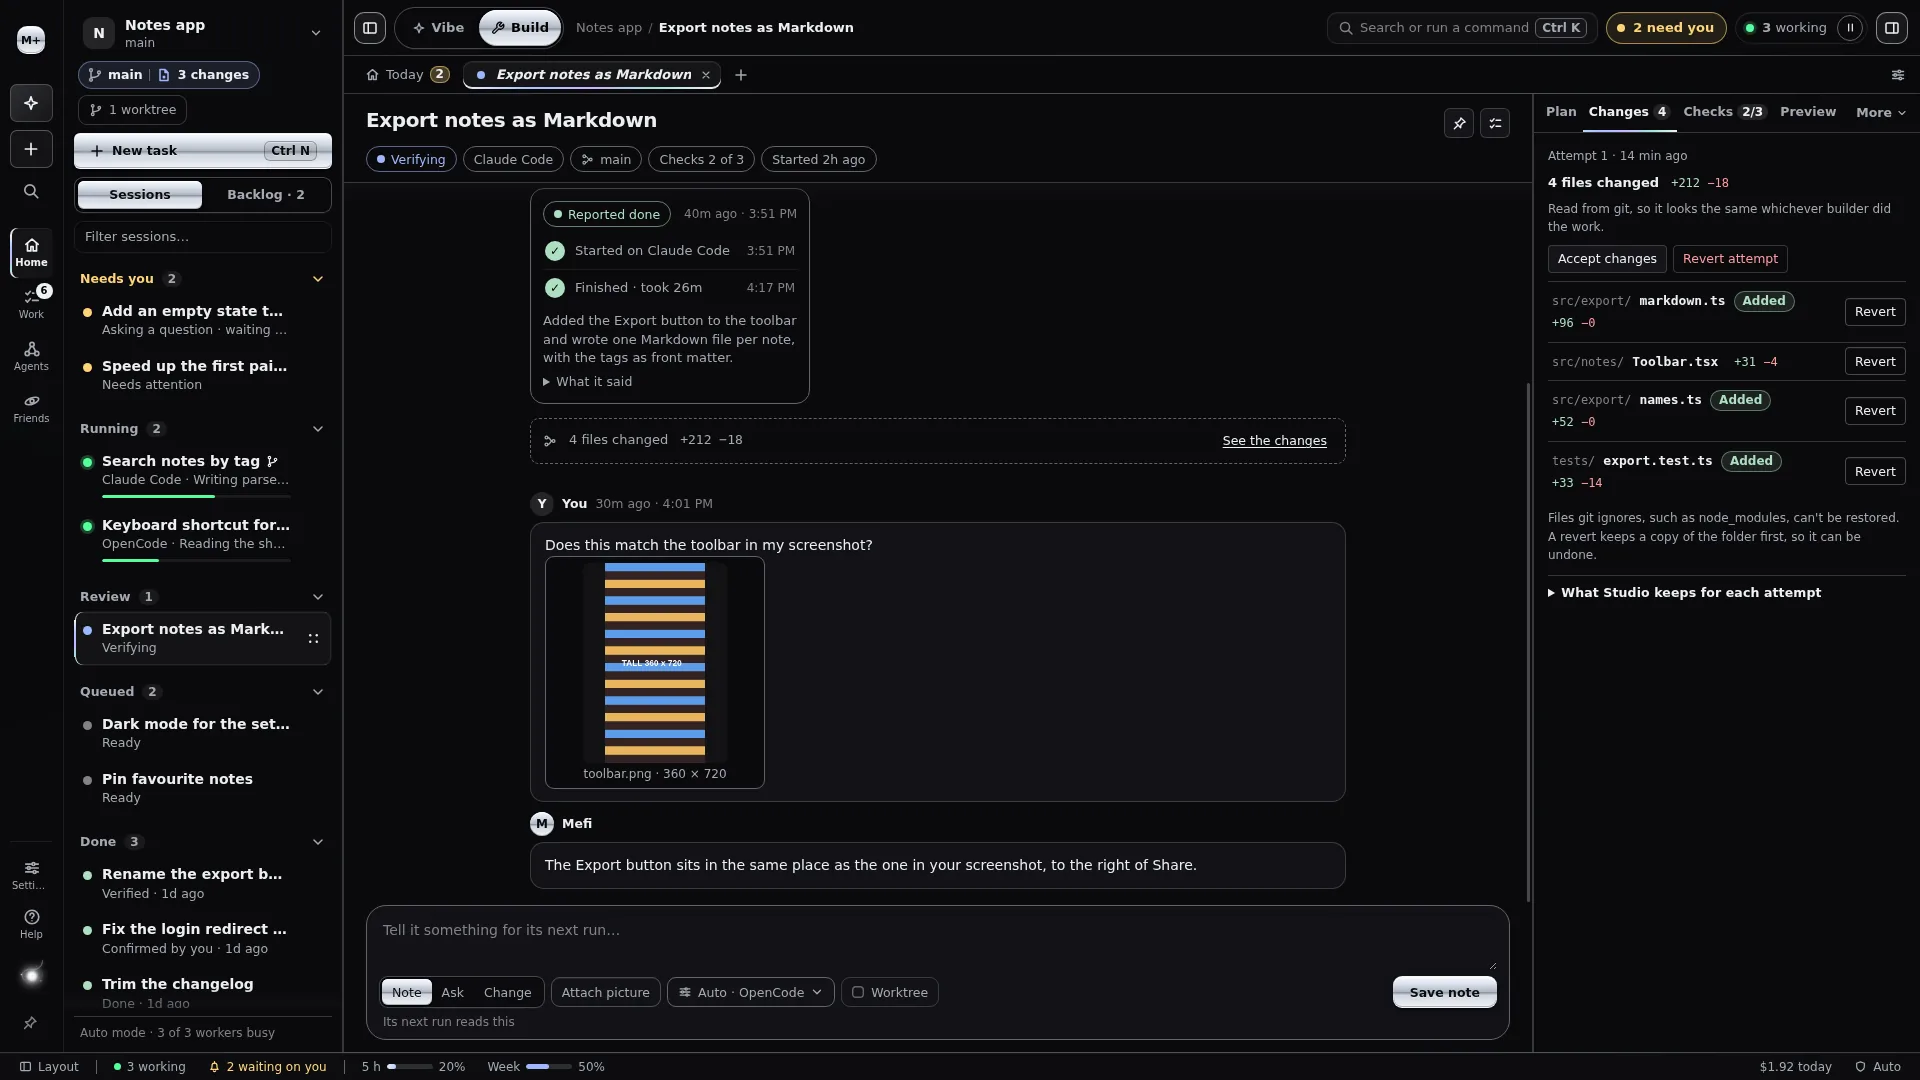
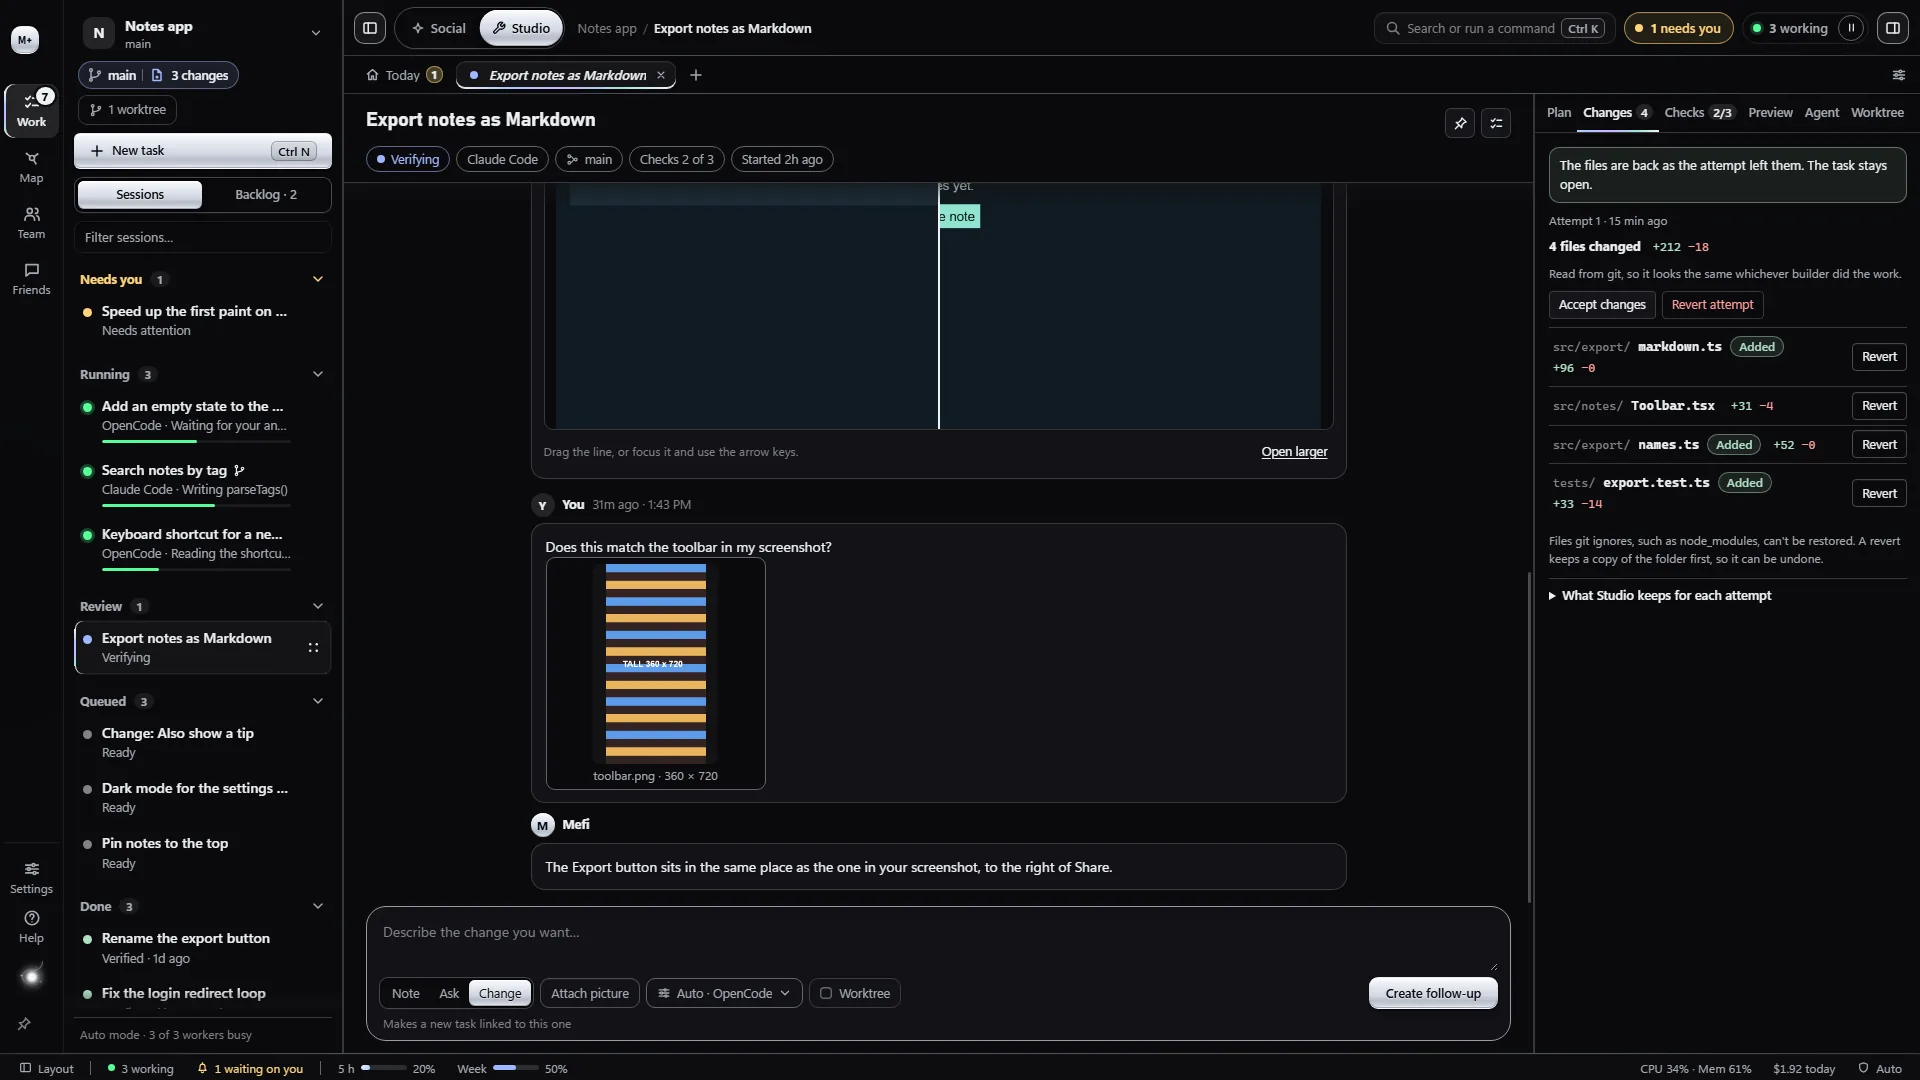
README: the 0.5 screenshots with Social and Studio's names
The four 0.5 screenshots (Studio mode, Social's Today, the Inbox, a session's
changes) were taken before the rename and showed "Vibe | Build" and the old
menu names. These are the site redesign session's fresh captures from the
real-renderer fixtures on main (feb4a29), 1920 x 1080 in the Chrome theme
with sample data; the alt texts say what each one shows now.

diff --git a/README.md b/README.md
@@ -30,7 +30,7 @@
 </p>
 
 <p align="center">
-  <img src="docs/images/0.5/build.webp" width="960" alt="The 0.5 layout in Studio mode: sessions grouped as Needs you, Running, Review, Queued and Done on the left, a running session with its steps and live output in the middle, and its plan, brief, checks and versions in the inspector on the right">
+  <img src="docs/images/0.5/build.webp" width="960" alt="The 0.5 layout in Studio mode: the project's sessions grouped as Needs you, Running, Review, Queued and Done on the left, Today in the middle with the message box, what needs you and what is running, and the project's repository, team and live activity on the right">
   <br>
   <sub>The 0.5 layout in Studio mode, in the new Chrome theme, from the current build on <code>main</code> with sample data.</sub>
 </p>
@@ -64,17 +64,17 @@ The [public roadmap](https://nateecho32-stack.github.io/mefi-studio/roadmap.html
 <table>
   <tr>
     <td width="50%" valign="top">
-      <img src="docs/images/0.5/today.webp" alt="Social in the 0.5 layout: What's next for Sunrise? with a box to build or talk it over, and a board of Needs you, Running, Review and Done today cards">
+      <img src="docs/images/0.5/today.webp" alt="Social in the 0.5 layout: What's next for Notes app? with a box to build or talk it over, and a board of Needs you, Running, Review and Done cards">
       <p><strong>Today.</strong> Social's home: one box to build or ask, and a board of what needs you, what runs, what to review and what is done.</p>
     </td>
     <td width="50%" valign="top">
-      <img src="docs/images/0.5/inbox.webp" alt="Work › Inbox: a question from OpenCode with Mefi's suggestion and two options, and a failed check with Try again, It's done and Drop it">
+      <img src="docs/images/0.5/inbox.webp" alt="The Inbox over Social's Today: a failed check with Try a different approach, a permission request with Deny recommended, and a question with Mefi's suggestion and numbered options">
       <p><strong>One Inbox.</strong> Every question, approval and failed check that waits on you, with a suggested answer.</p>
     </td>
   </tr>
   <tr>
     <td width="50%" valign="top">
-      <img src="docs/images/0.5/changes.webp" alt="A finished session in review: the worker's run and an attached picture in the thread, and four changed files with Accept changes, Revert attempt and Revert per file in the inspector">
+      <img src="docs/images/0.5/changes.webp" alt="A session in review: the thread with an attached picture and Mefi's answer, and four changed files with Accept changes, Revert attempt and Revert per file in the inspector">
       <p><strong>Changes you can take back.</strong> See the files a worker changed, then accept them or revert one file or the whole attempt.</p>
     </td>
     <td width="50%" valign="top">
